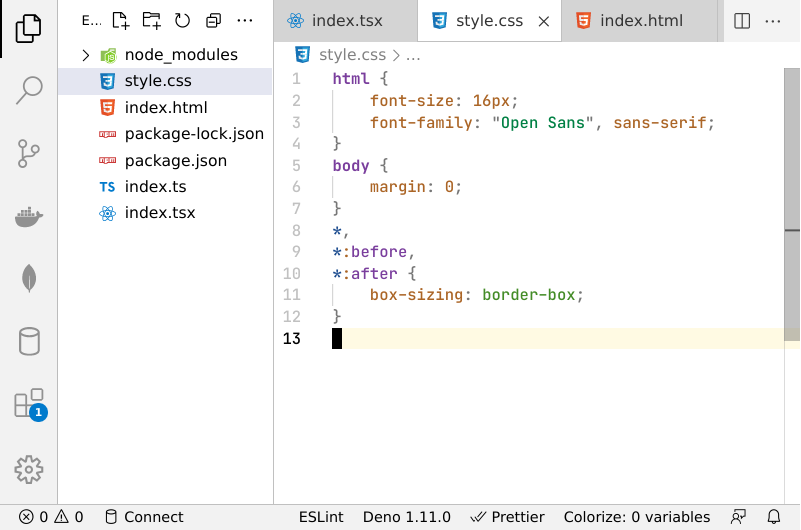
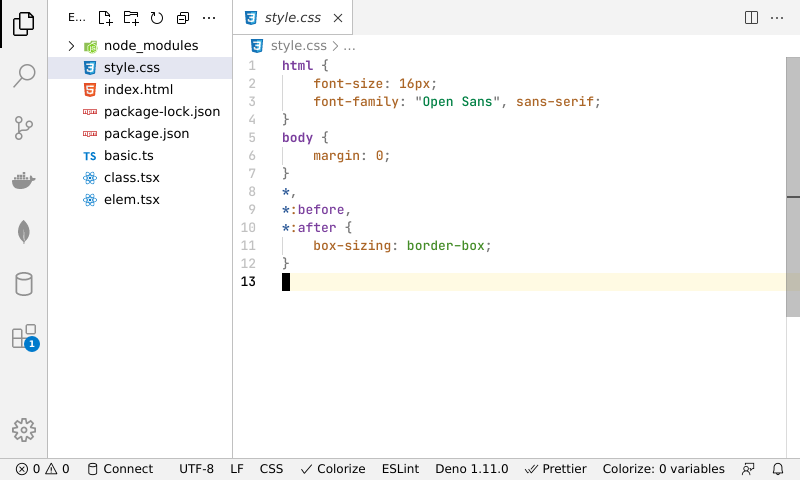
Update docs

diff --git a/README.md b/README.md
@@ -11,15 +11,27 @@ Don't expect any fancy colors.
 More colors equals more distraction, we don't want to waste cognitive capacity
 on that. The goal of this theme is to have the minimum meaningful  colors.
 
+Languages specific tweaks
+-------------------------
+
+- TypeScript
+- JavaScript
+- JSX, TSX
+- Bash
+
+Others comming soon...
+
 Preview
 -------
 
 - Font used [JetBrains Mono](https://www.jetbrains.com/lp/mono/)
 - Icons used [vscode-icons](https://github.com/vscode-icons/vscode-icons)
 
-![React](./examples/tsx.png)
+![React Class](./examples/class.png)
 
-![TypeScript](./examples/ts.png)
+![React Element](./examples/elem.png)
+
+![TypeScript](./examples/basic.png)
 
 ![HTML](./examples/html.png)
 
